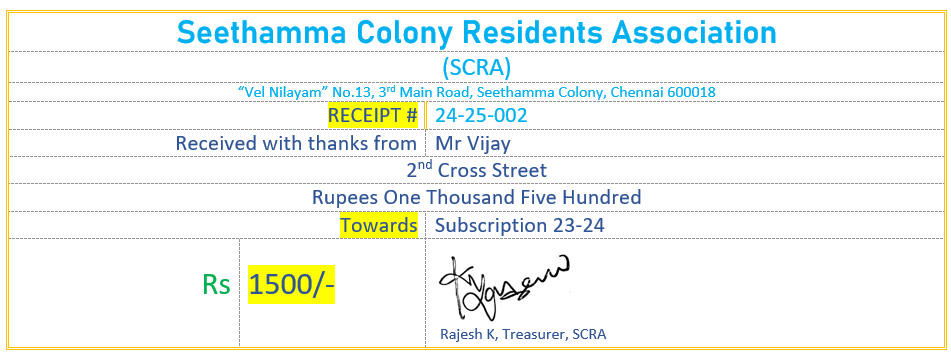
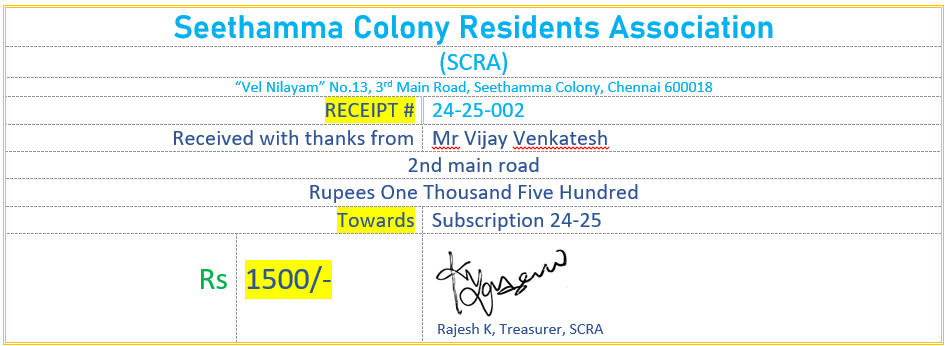
scra23-12-24 003

Changed region(s): [[0.0, 0.0, 1.0, 1.0], [0.2144, 0.7514, 0.3675, 0.8671]]

diff --git a/scra/Receipts/index.html b/scra/Receipts/index.html
@@ -88,7 +88,7 @@ with transaction number or screen shot of your payment to Mr Rajesh. </p>
 		<span style="font-size: 14.0pt; line-height: 107%; font-family: &quot;Calibri&quot;,sans-serif; mso-ascii-theme-font: minor-latin; mso-fareast-font-family: Calibri; mso-fareast-theme-font: minor-latin; mso-hansi-theme-font: minor-latin; mso-bidi-font-family: Latha; mso-bidi-theme-font: minor-bidi; color: #2F5496; mso-themecolor: accent5; mso-themeshade: 191; mso-ansi-language: EN-US; mso-fareast-language: EN-US; mso-bidi-language: AR-SA">
 		Mr Vijay Jesudasan</span></td>
 		<td class="auto-style7" style="width: 75%">
-		<img alt="" src="img13.jpg" />&nbsp;</td>
+		<img alt="" src="img3.jpg" />&nbsp;</td>
 	</tr>
 	<tr>
 		<td class="auto-style5" style="width: 25%">Mr M Renganathan</td>
